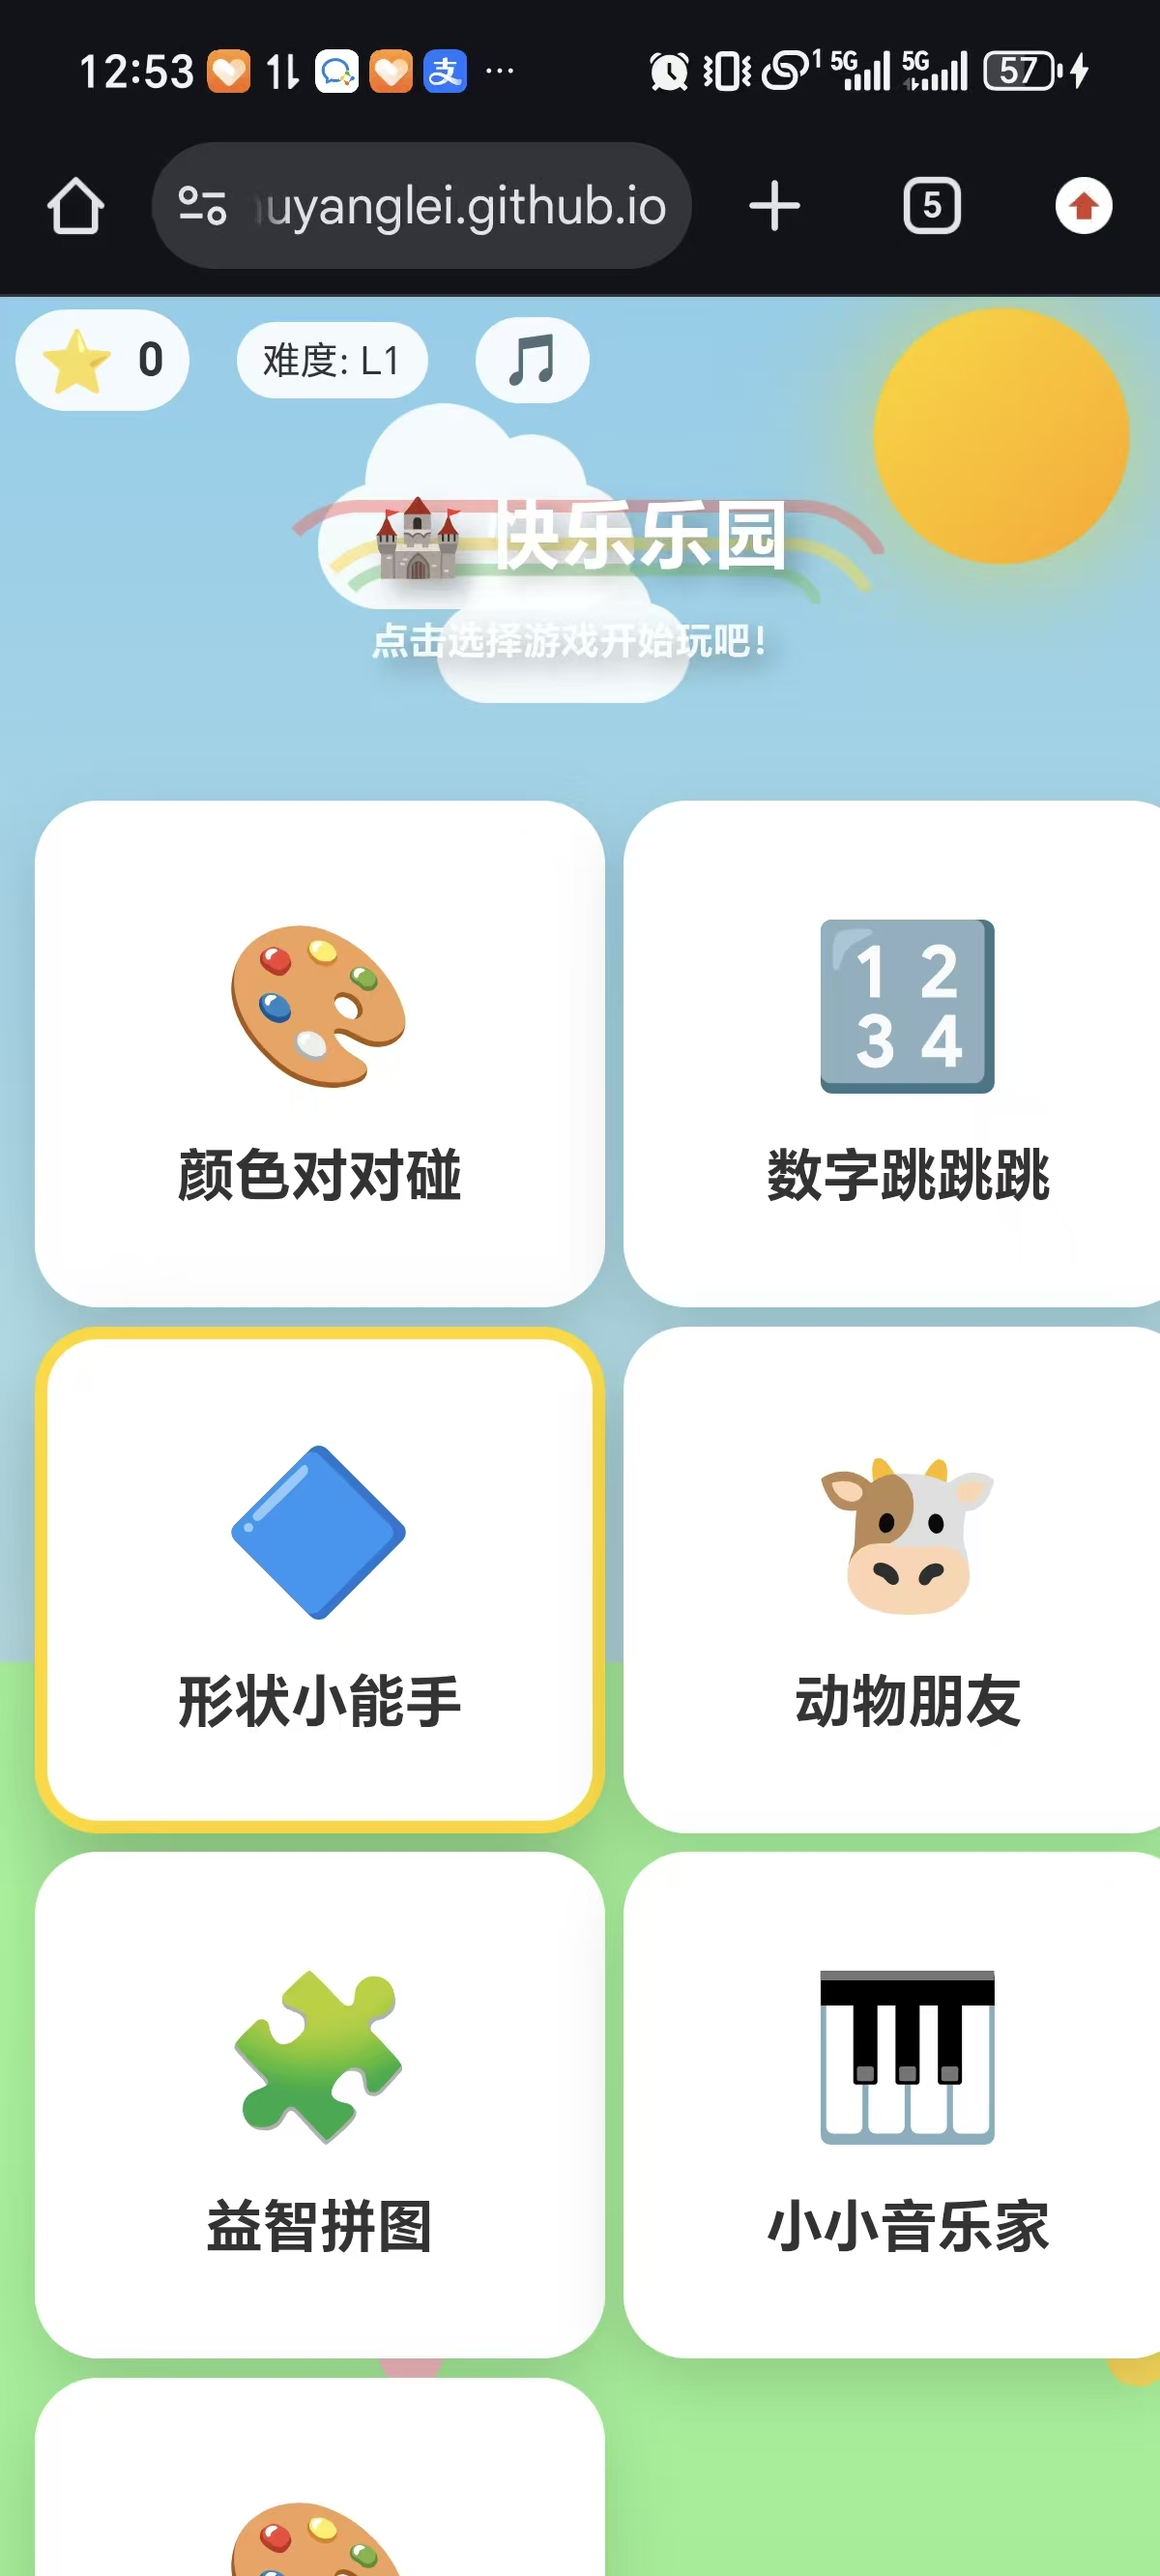
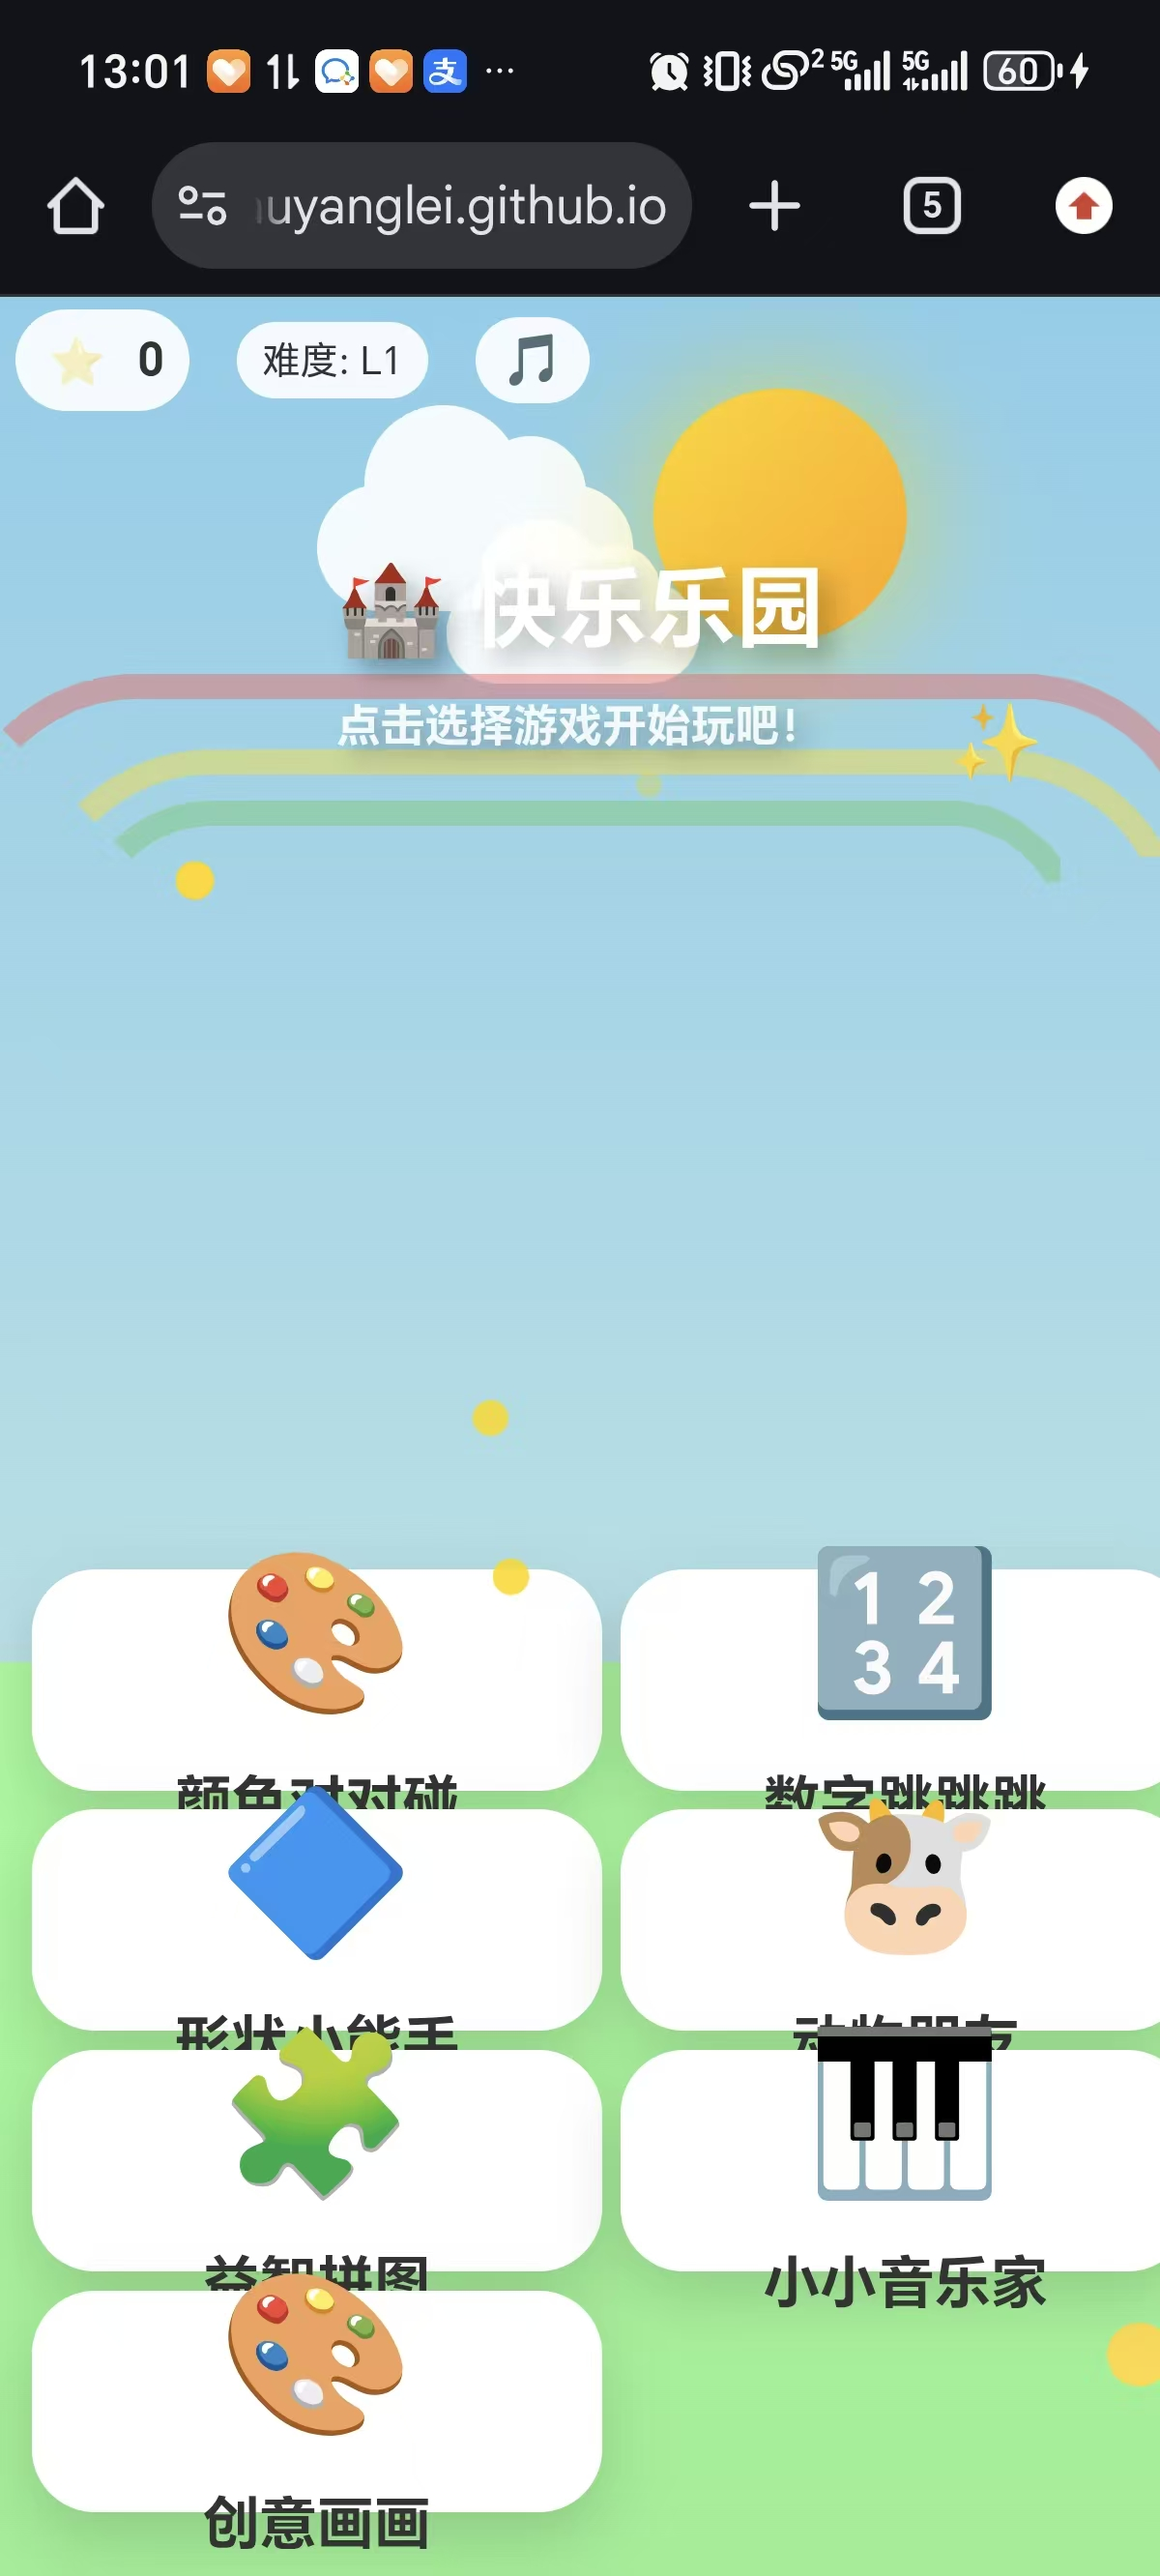
fix: 优化移动端游戏卡片自适应布局
- 使用 grid-auto-rows 让卡片高度自适应填充可用空间
- 根据屏幕宽度动态调整列数(4->3->2列)
- 优化标题和头部位置

diff --git a/index.html b/index.html
@@ -234,32 +234,43 @@
         @media (max-width: 768px) {
             .games-grid {
                 position: absolute;
-                top: auto;
-                bottom: 20px;
+                top: 150px;
                 left: 10px;
                 right: 10px;
+                bottom: 20px;
                 width: auto;
                 transform: none;
-                grid-template-columns: repeat(2, 1fr);
-                grid-template-rows: repeat(4, 1fr);
-                gap: 8px;
-                height: auto;
+                display: grid;
+                grid-template-columns: repeat(4, 1fr);
+                grid-auto-rows: minmax(70px, 1fr);
+                gap: 6px;
             }
             .game-card {
                 width: 100%;
-                height: auto;
-                aspect-ratio: 1.4;
-                min-height: 60px;
-                max-height: 80px;
+                height: 100%;
+                min-height: 0;
             }
-            .game-icon { font-size: 24px; }
+            .game-icon { font-size: 28px; }
             .game-name { font-size: 11px; }
         }
+        @media (max-width: 600px) {
+            .games-grid {
+                grid-template-columns: repeat(3, 1fr);
+                grid-auto-rows: minmax(65px, 1fr);
+            }
+            .game-icon { font-size: 24px; }
+        }
         @media (max-width: 480px) {
-            .games-grid { gap: 6px; }
-            .game-card { min-height: 55px; max-height: 70px; }
-            .game-icon { font-size: 20px; }
+            .games-grid {
+                grid-template-columns: repeat(2, 1fr);
+                gap: 5px;
+            }
+            .game-card { min-height: 60px; }
+            .game-icon { font-size: 22px; }
             .game-name { font-size: 10px; }
+            .title { font-size: 26px; top: 55px; }
+            .subtitle { font-size: 12px; }
+            .header { top: 8px; }
         }
         .game-card {
             width: 180px; height: 160px;

diff --git a/src/index.html b/src/index.html
@@ -232,32 +232,43 @@
         @media (max-width: 768px) {
             .games-grid {
                 position: absolute;
-                top: auto;
-                bottom: 20px;
+                top: 150px;
                 left: 10px;
                 right: 10px;
+                bottom: 20px;
                 width: auto;
                 transform: none;
-                grid-template-columns: repeat(2, 1fr);
-                grid-template-rows: repeat(4, 1fr);
-                gap: 8px;
-                height: auto;
+                display: grid;
+                grid-template-columns: repeat(4, 1fr);
+                grid-auto-rows: minmax(70px, 1fr);
+                gap: 6px;
             }
             .game-card {
                 width: 100%;
-                height: auto;
-                aspect-ratio: 1.4;
-                min-height: 60px;
-                max-height: 80px;
+                height: 100%;
+                min-height: 0;
             }
-            .game-icon { font-size: 24px; }
+            .game-icon { font-size: 28px; }
             .game-name { font-size: 11px; }
         }
+        @media (max-width: 600px) {
+            .games-grid {
+                grid-template-columns: repeat(3, 1fr);
+                grid-auto-rows: minmax(65px, 1fr);
+            }
+            .game-icon { font-size: 24px; }
+        }
         @media (max-width: 480px) {
-            .games-grid { gap: 6px; }
-            .game-card { min-height: 55px; max-height: 70px; }
-            .game-icon { font-size: 20px; }
+            .games-grid {
+                grid-template-columns: repeat(2, 1fr);
+                gap: 5px;
+            }
+            .game-card { min-height: 60px; }
+            .game-icon { font-size: 22px; }
             .game-name { font-size: 10px; }
+            .title { font-size: 26px; top: 55px; }
+            .subtitle { font-size: 12px; }
+            .header { top: 8px; }
         }
         .game-card {
             width: 180px; height: 160px;
